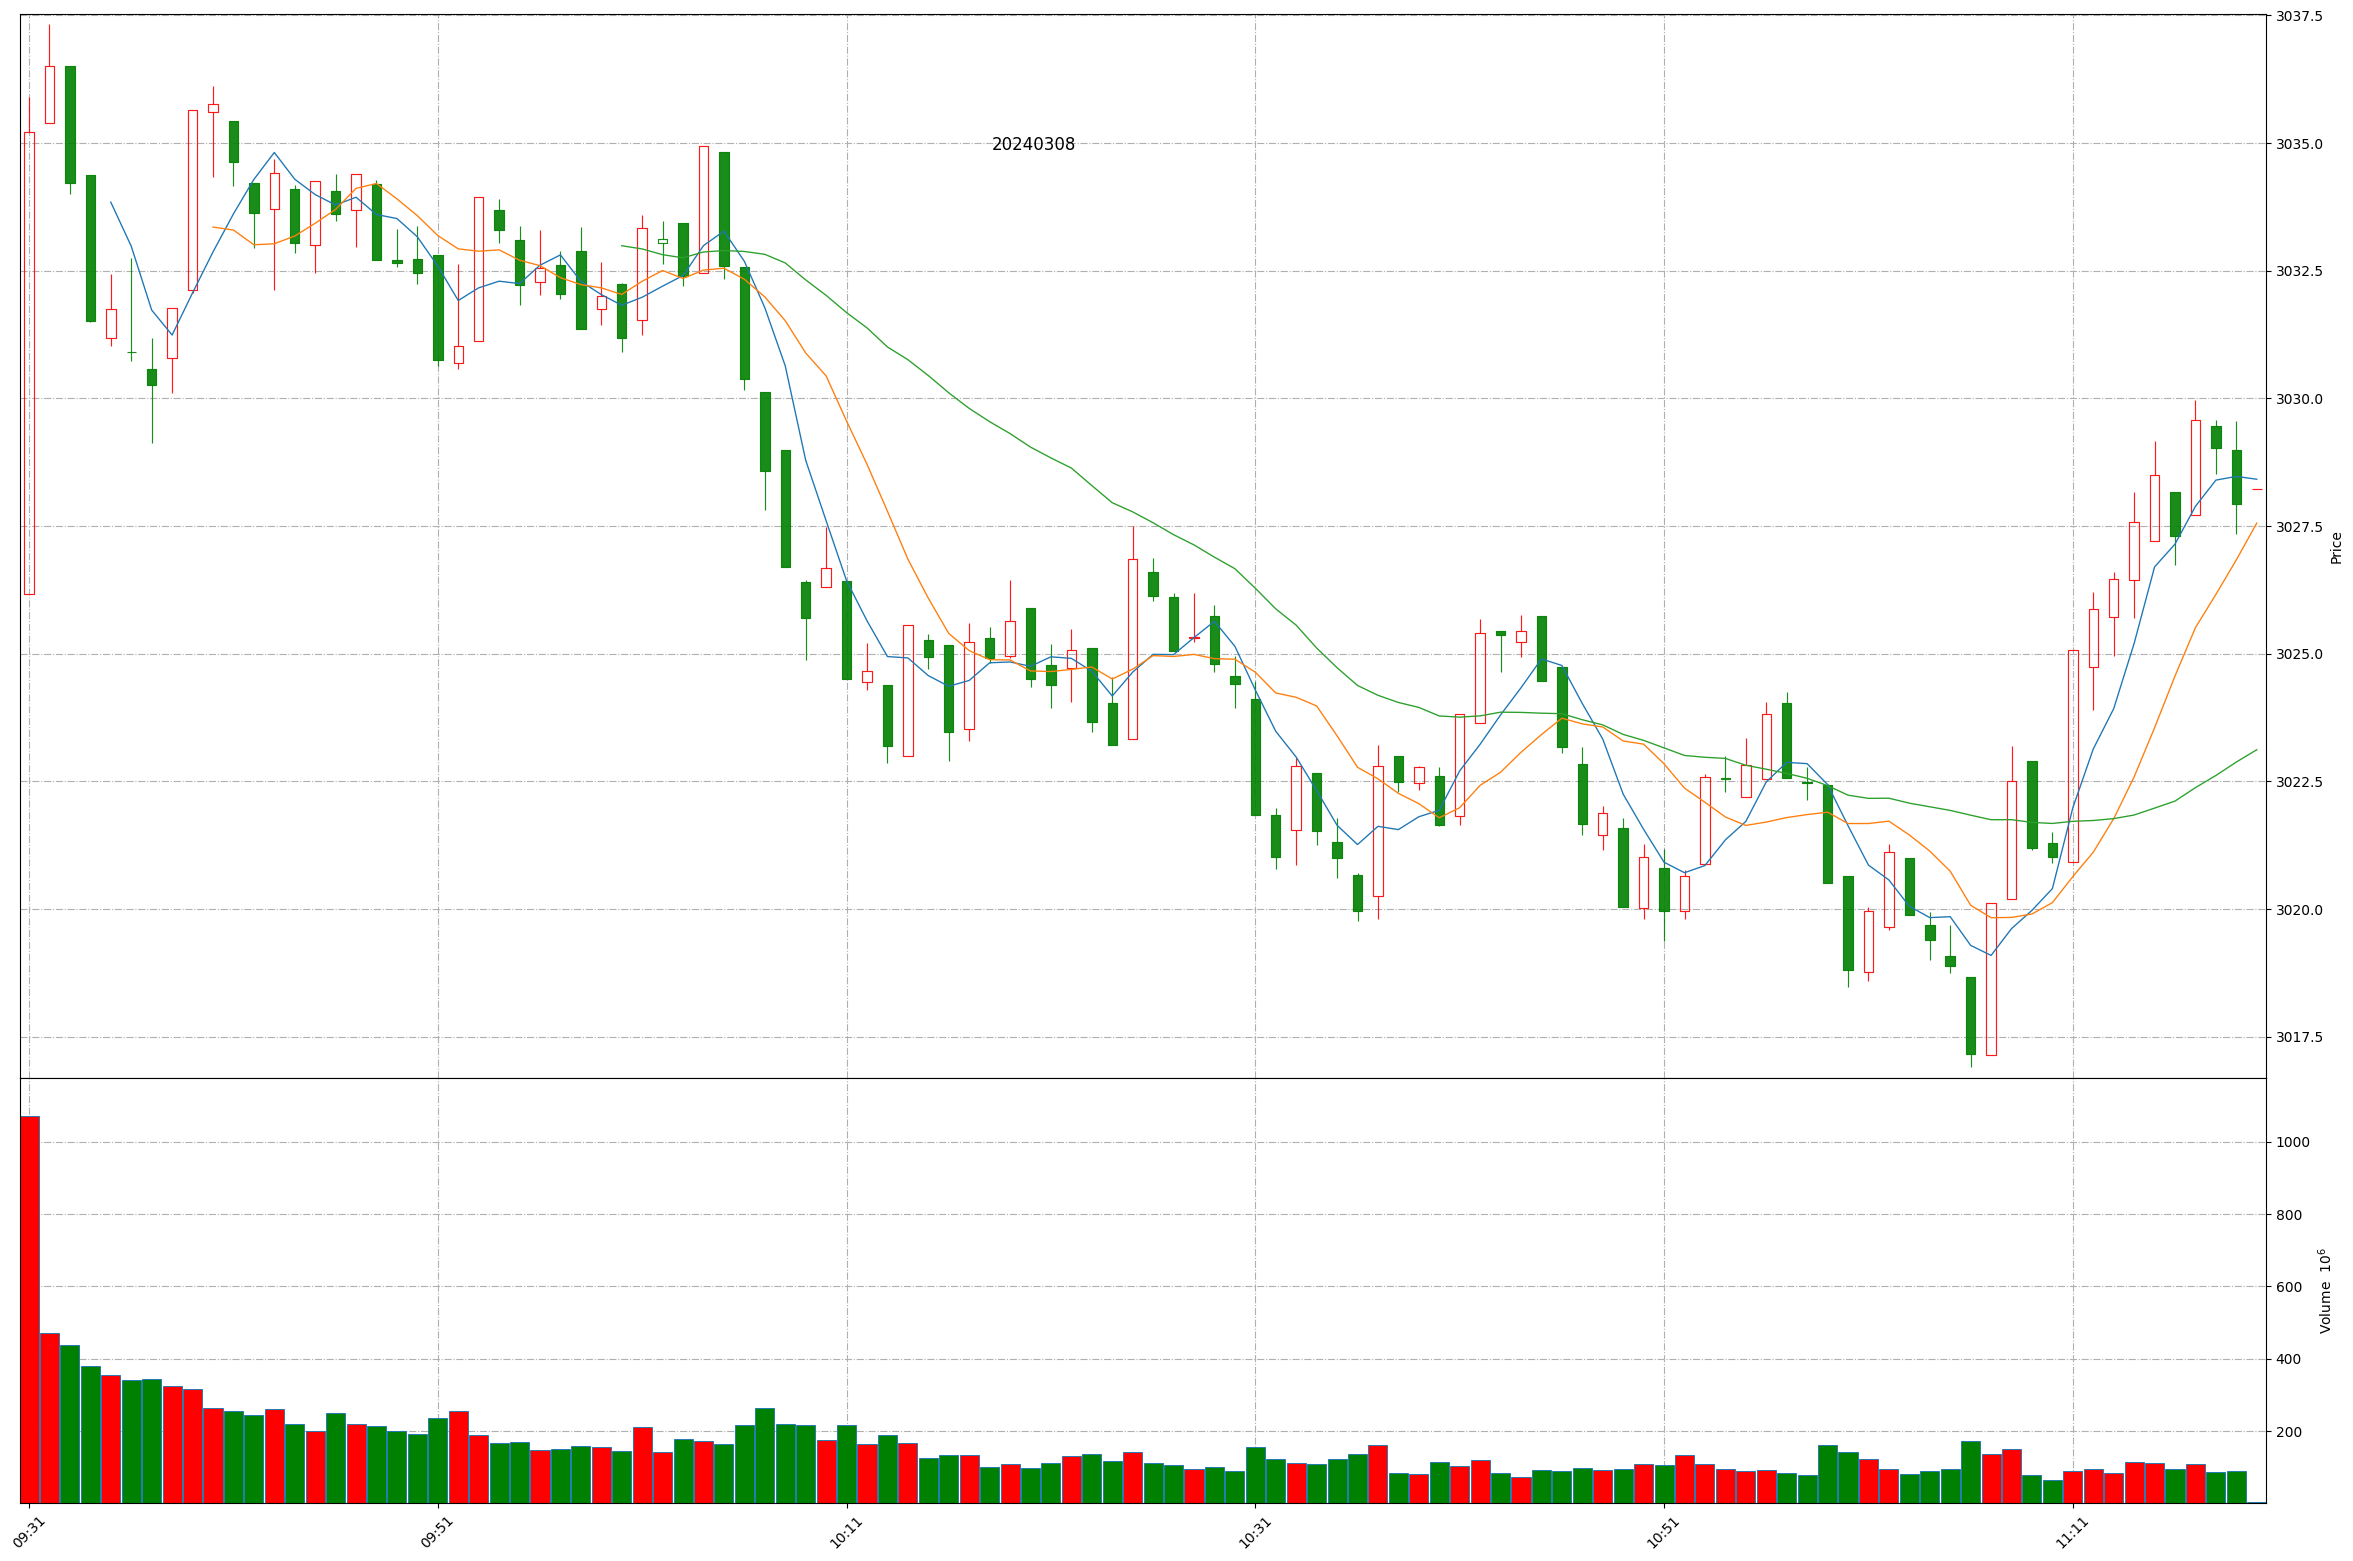
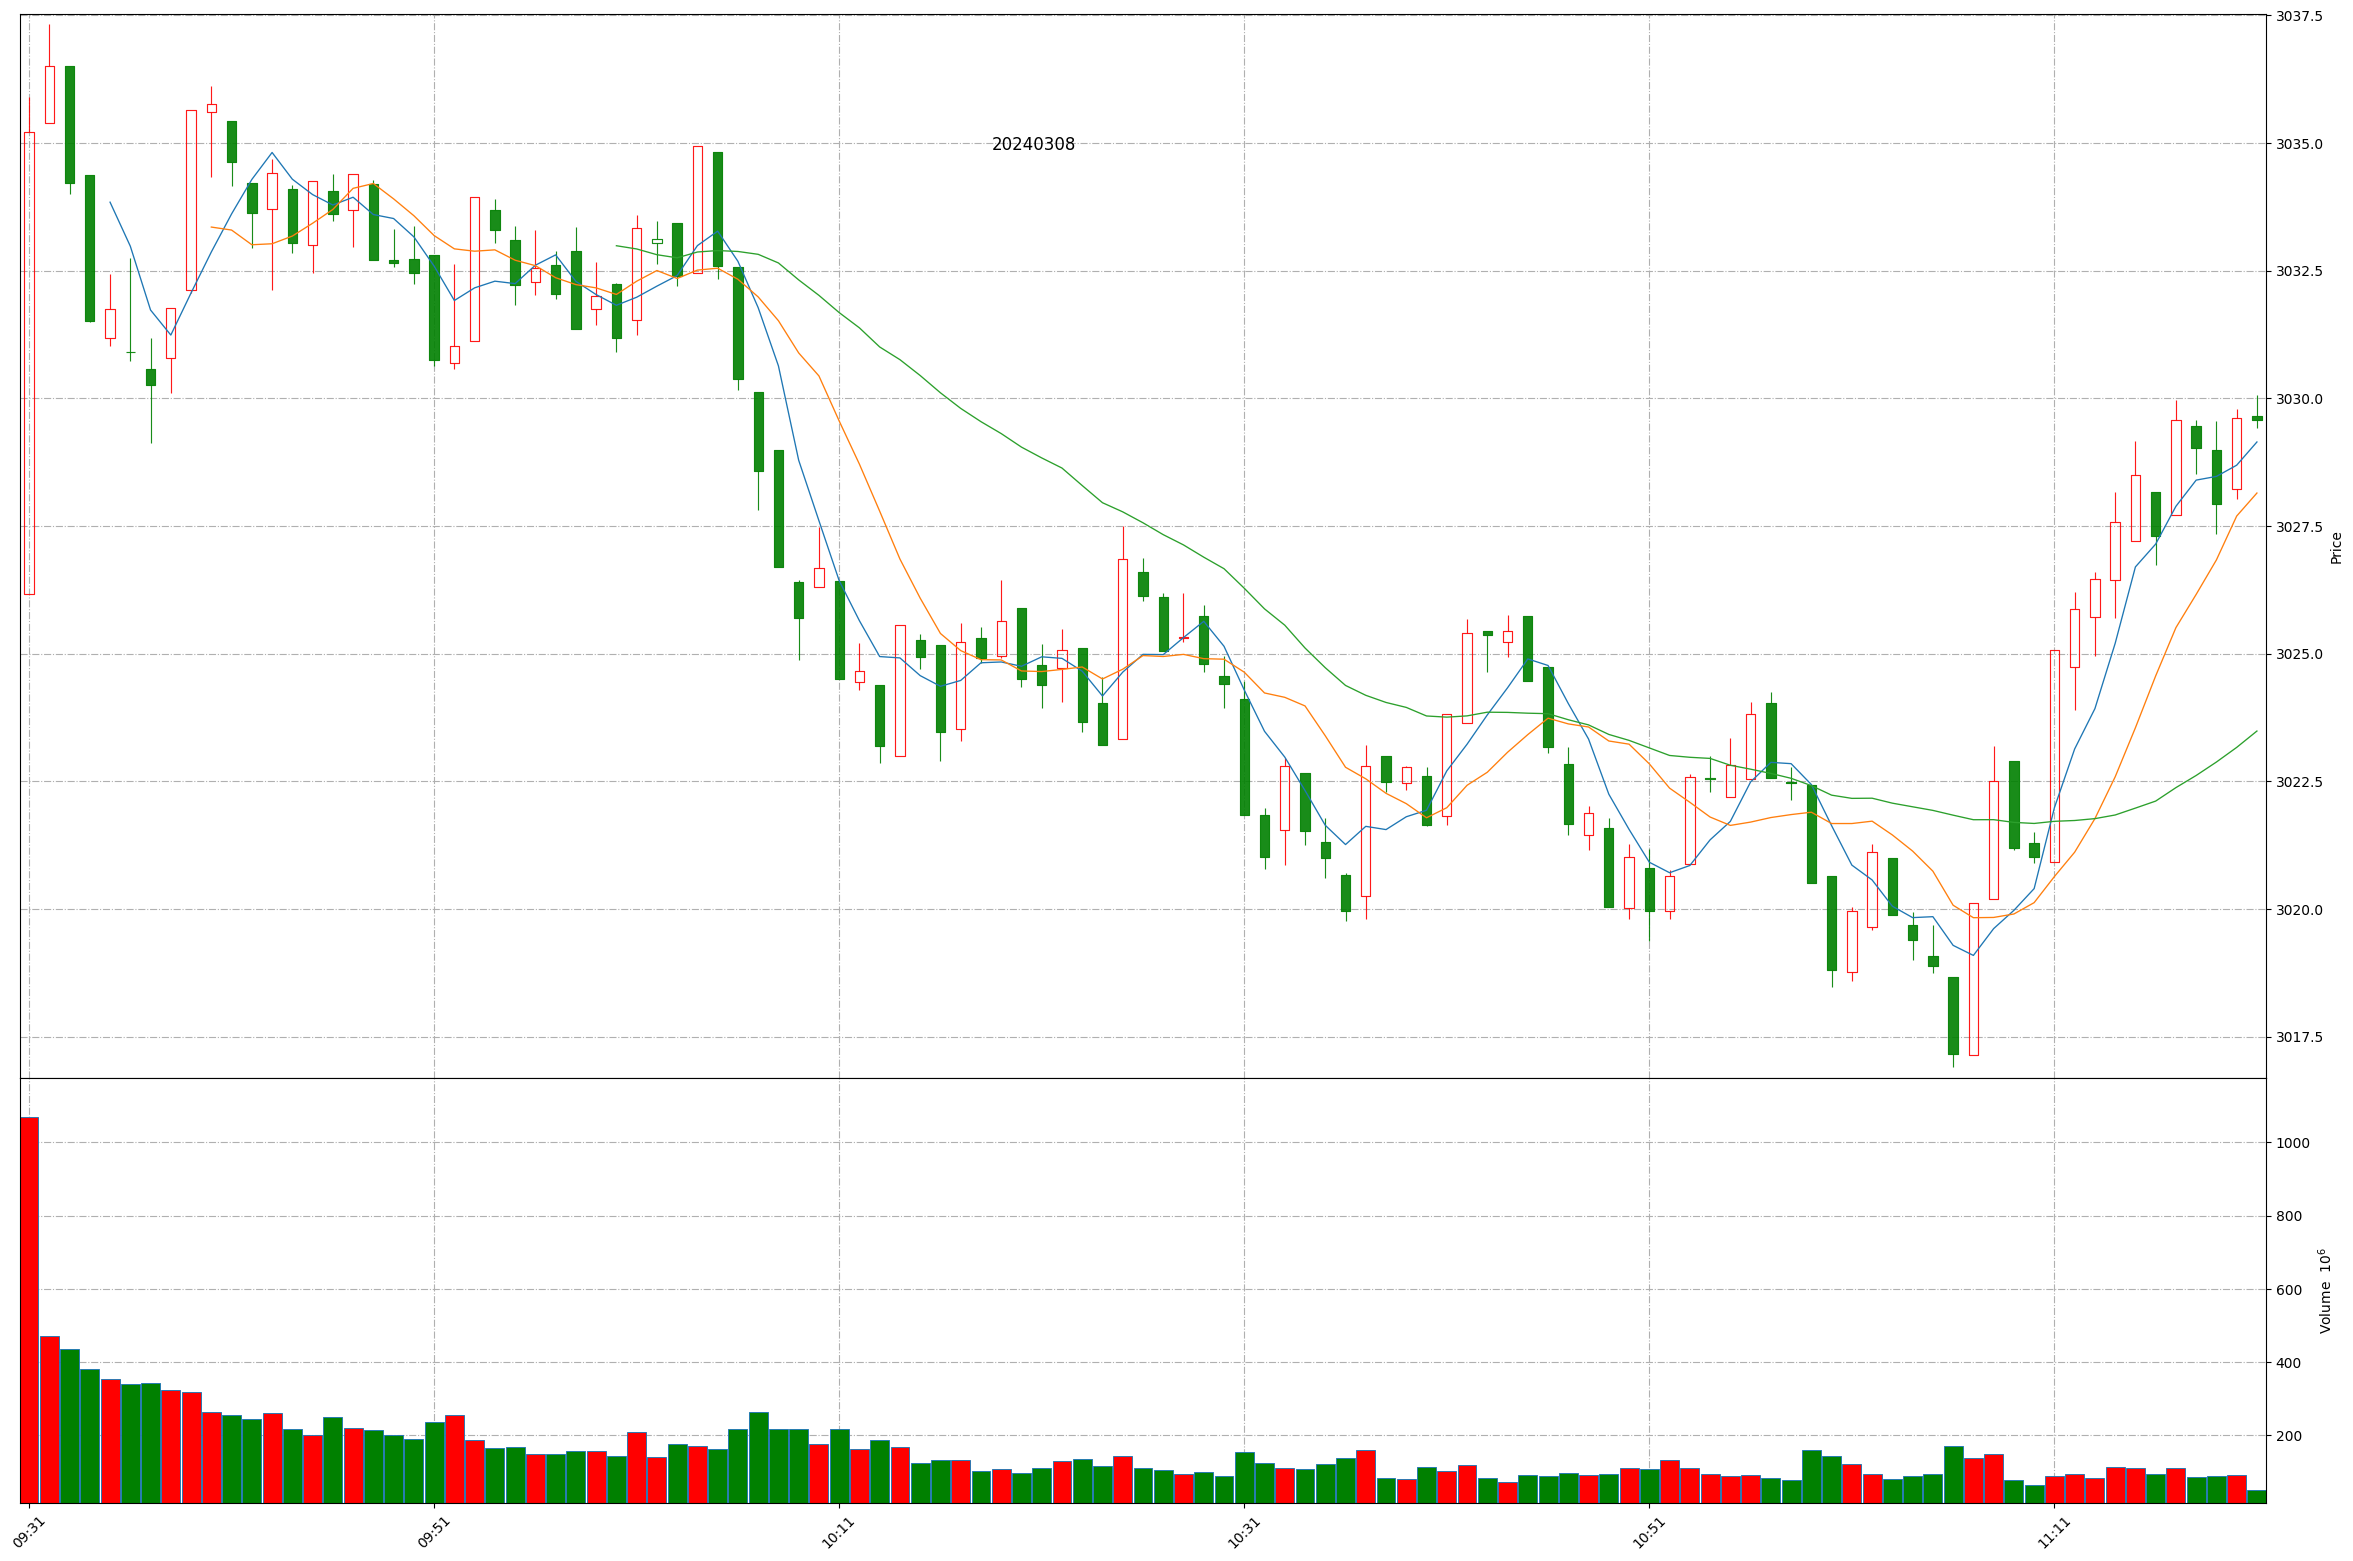
Github action update at 2024-03-08 11:20:50.

diff --git a/README.md b/README.md
@@ -1,11 +1,11 @@
 
 # Daily-A-share-market-quotes 每日 A 股指数（5min 更新）- 20240308
 
-### 上证指数 20240308 11:19
+### 上证指数 20240308 11:20
 ![](./fig/2024/3/20240308-sh000001.png)
 
-### 深证成指 20240308 11:19
+### 深证成指 20240308 11:20
 ![](./fig/2024/3/20240308-sz399001.png)
 
-### 北证50 20240308 11:19
+### 北证50 20240308 11:20
 ![](./fig/2024/3/20240308-bj899050.png)
